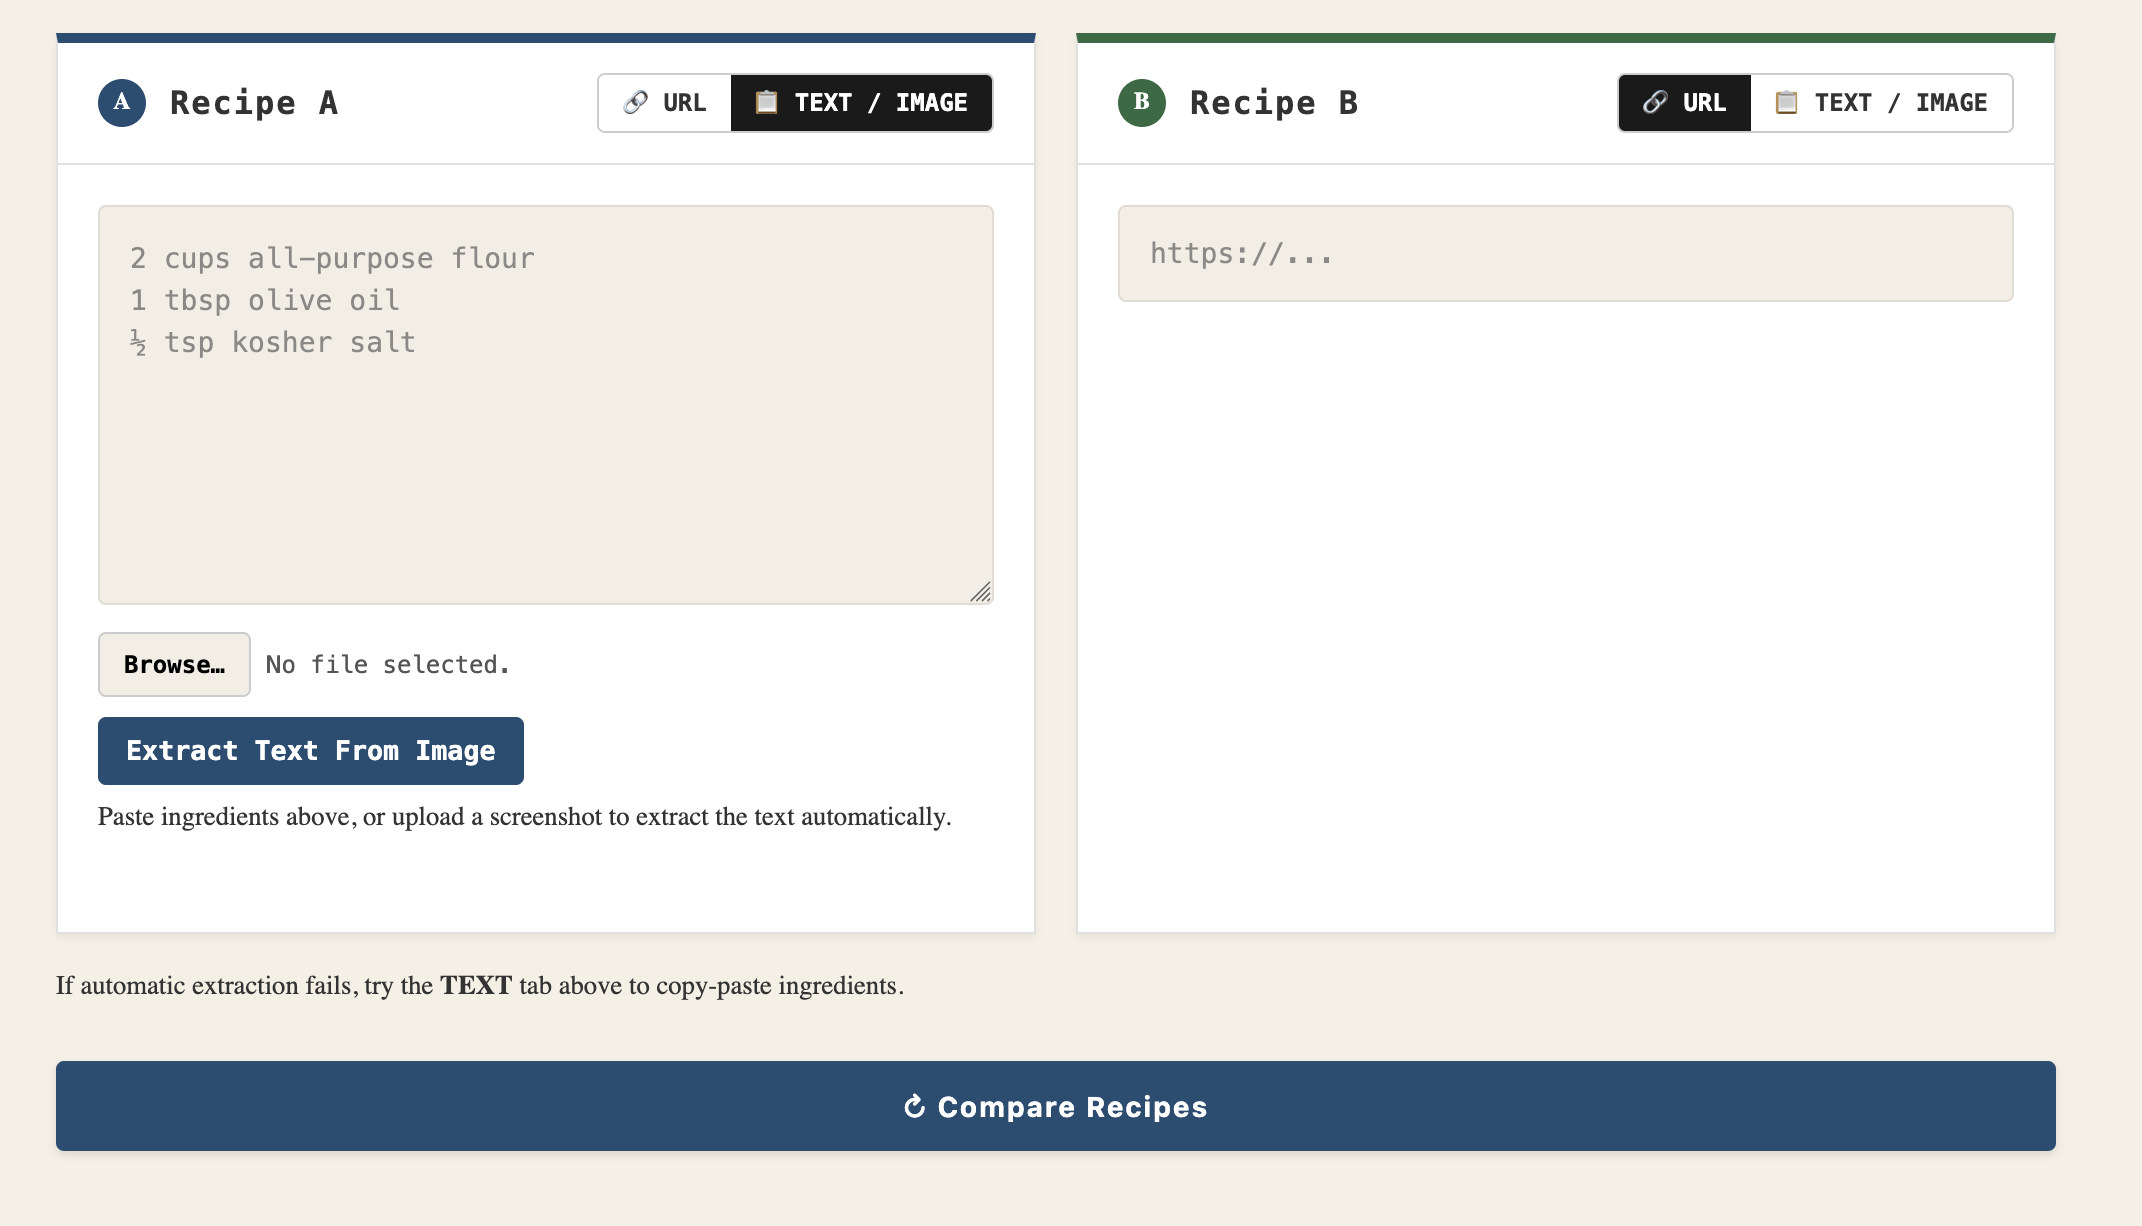
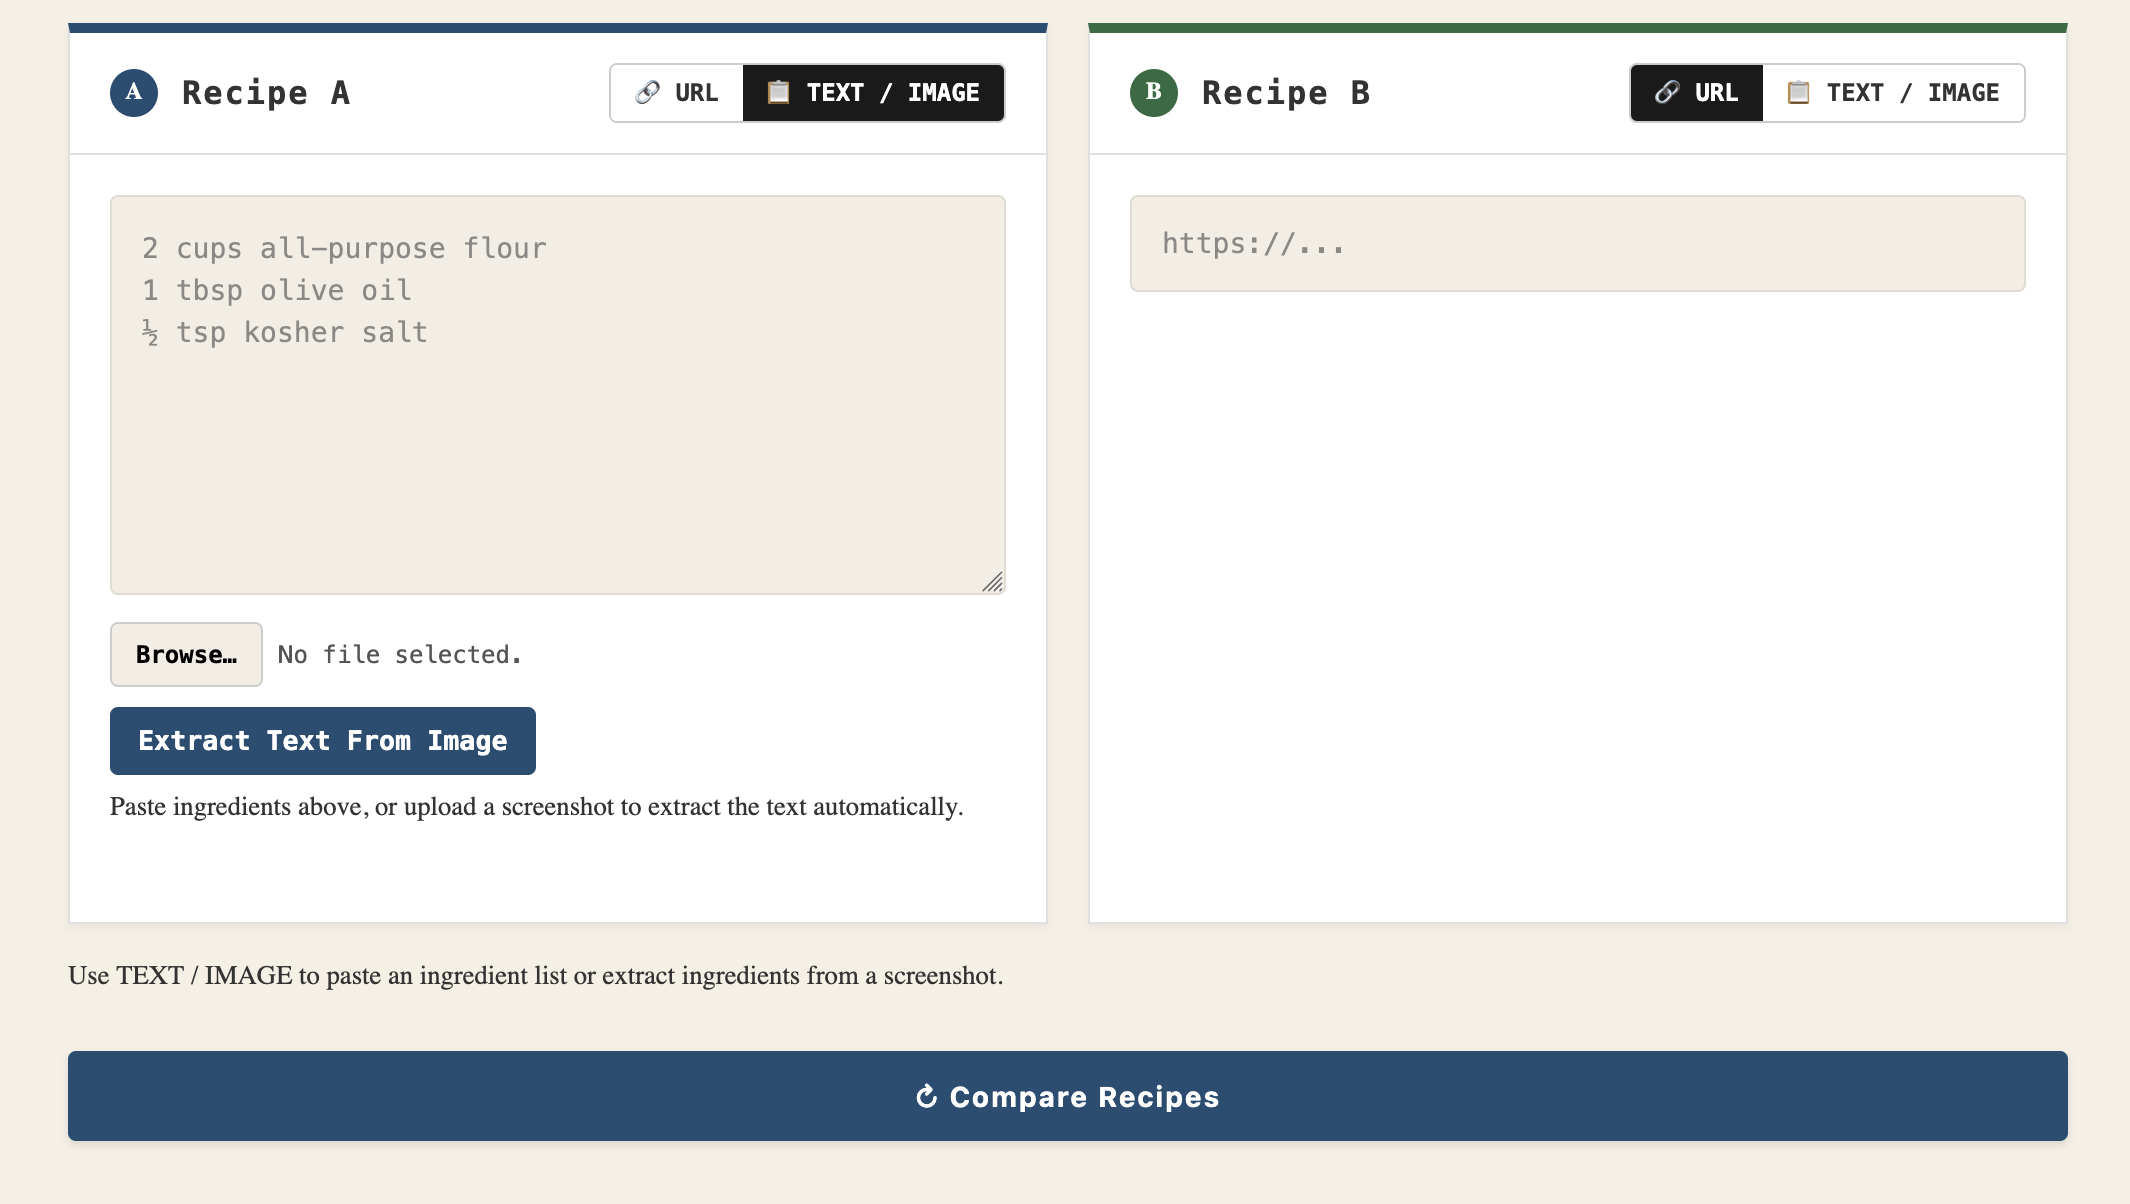
Updated screenshot for readme. Change comparison to highlight image and add text how helper

Changed region(s): [[0.0, 0.0, 0.9915, 0.7683], [0.0, 0.8605, 0.9915, 0.9527], [0.031, 0.799, 0.4648, 0.8297]]

diff --git a/app/templates/comparison.html b/app/templates/comparison.html
@@ -585,8 +585,7 @@
             </div>
         </div>
         <small>
-  If automatic extraction fails, try the
-  <strong>TEXT</strong> tab above to copy-paste ingredients.
+ Use TEXT / IMAGE to paste an ingredient list or extract ingredients from a screenshot.
 </small>
         <div class="form-actions">
             <button type="submit" class="submit-btn">
